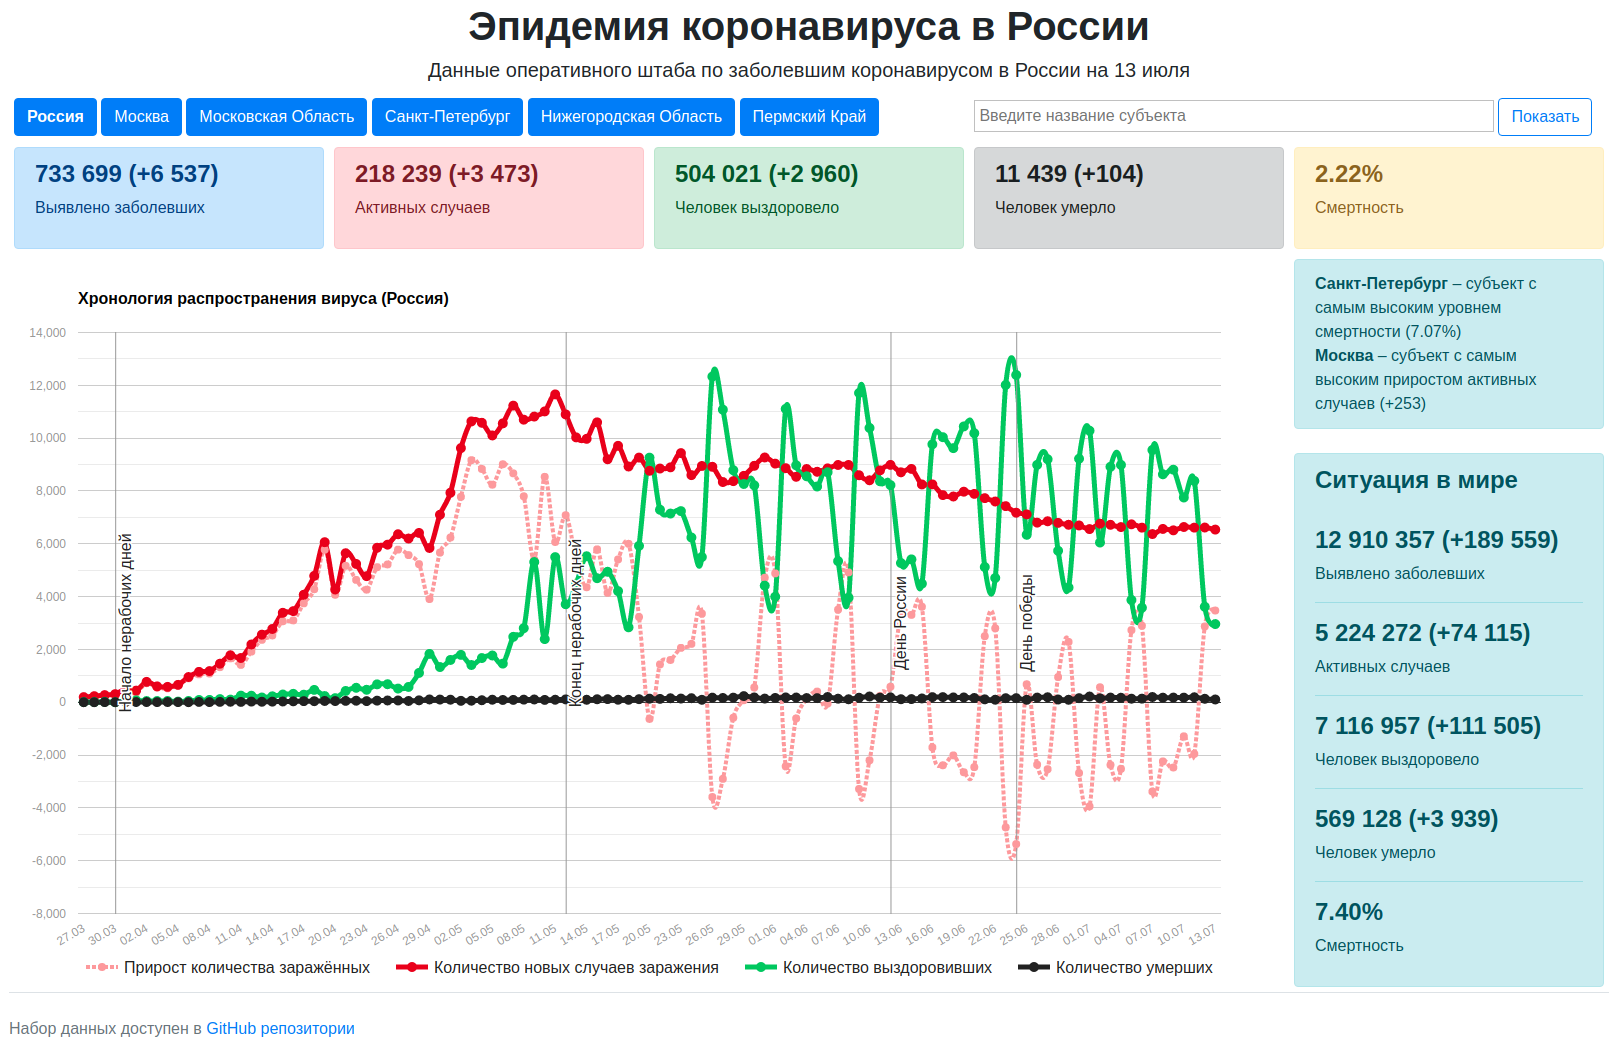
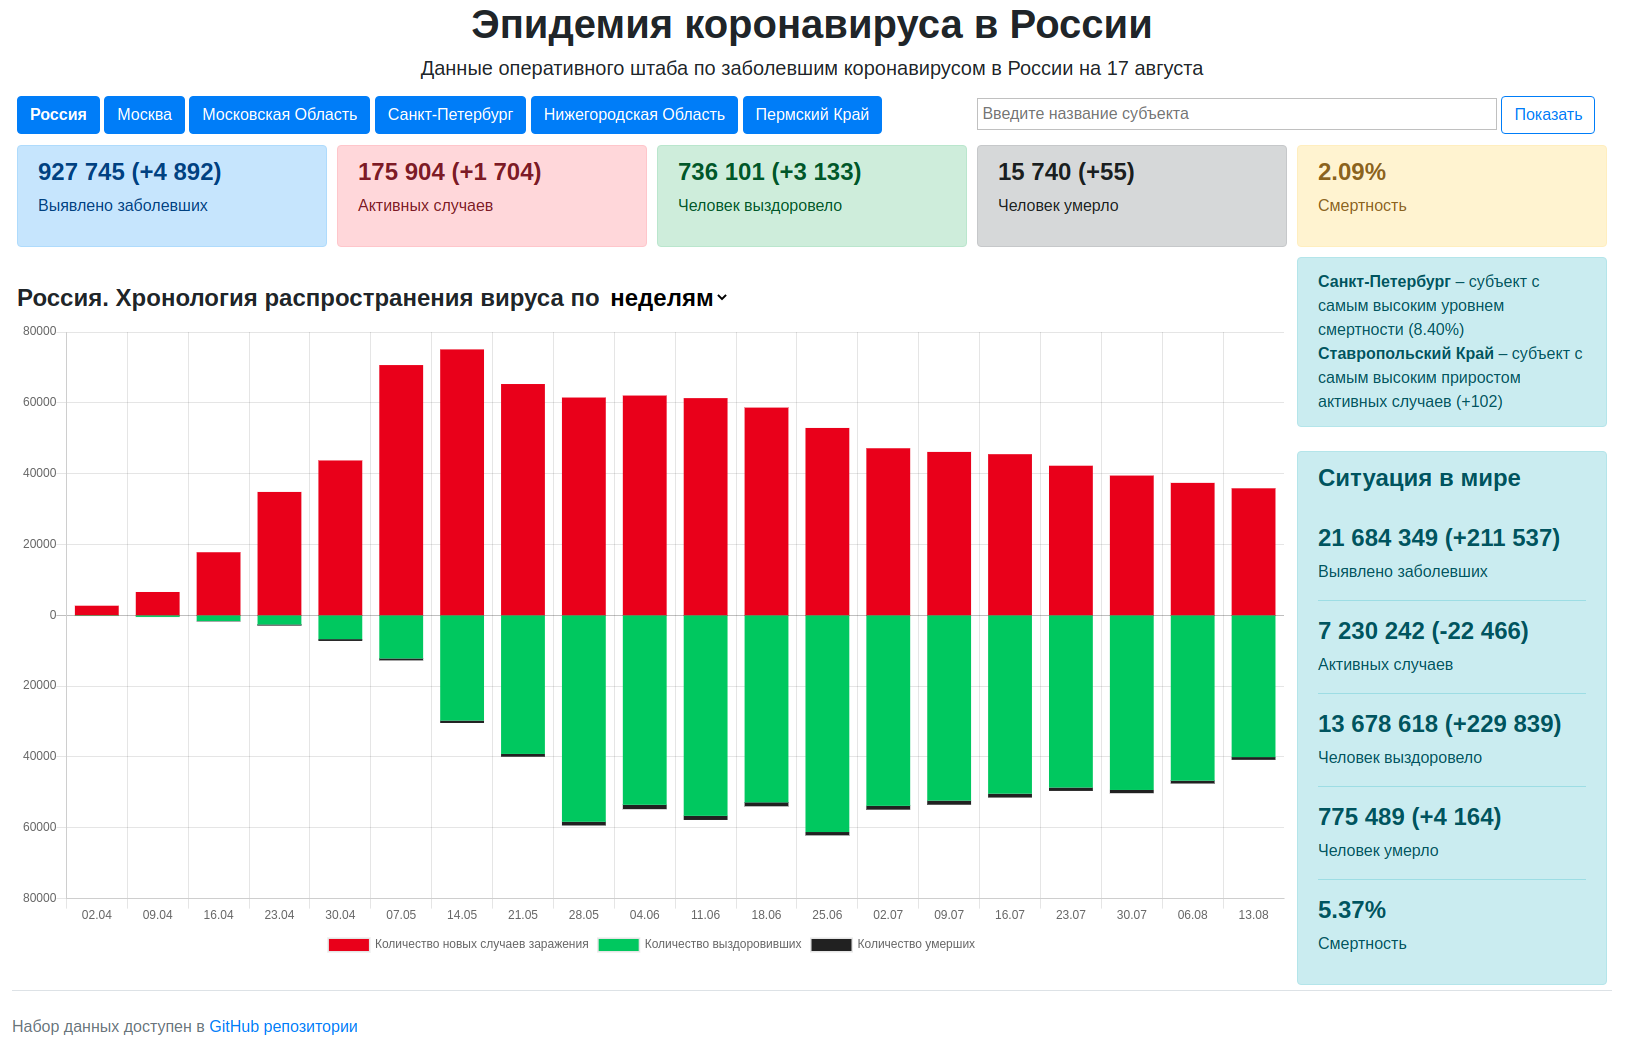
Updated info about the "COVID-19 pandemic in Russia" project

diff --git a/visualizations.html b/visualizations.html
@@ -24,12 +24,12 @@
                 <tr class="data-visualization-row">
                     <td class="data-visualization-img-block">
                         <a href="https://duketemon.github.io/covid-in-russia">
-                            <img src="https://raw.githubusercontent.com/duketemon/duketemon.github.io/master/visualizations/COVID-19%20pandemic%20in%20Russia/screenshot.png"/>
+                            <img src="visualizations/COVID-19 pandemic in Russia/screenshot.png"/>
                         </a>
                     </td>
                     <td class="data-visualization-text-block">
                         <h1 class="data-visualization-text-block-title">COVID-19 pandemic in Russia</h1>
-                        <p class="data-visualization-text-block-description">The <a href="https://duketemon.github.io/covid-in-russia">website</a> for monitoring the COVID-19 situation in Russia and its regions. Made with Google Charts and Bootstrap. The dataset available <a href="https://github.com/duketemon/covid-russia">here</a>.<br><span class="badge badge-warning">JavaScript</span></p>
+                        <p class="data-visualization-text-block-description">The <a href="https://duketemon.github.io/covid-in-russia">website</a> for monitoring the COVID-19 situation in Russia and its regions. Made with Chart.js and Bootstrap frameworks. The dataset available <a href="https://github.com/duketemon/covid-russia">here</a>.<br><span class="badge badge-warning">JavaScript</span></p>
                     </td>
                 </tr>
                 <tr style="height: 50px;"></tr>
